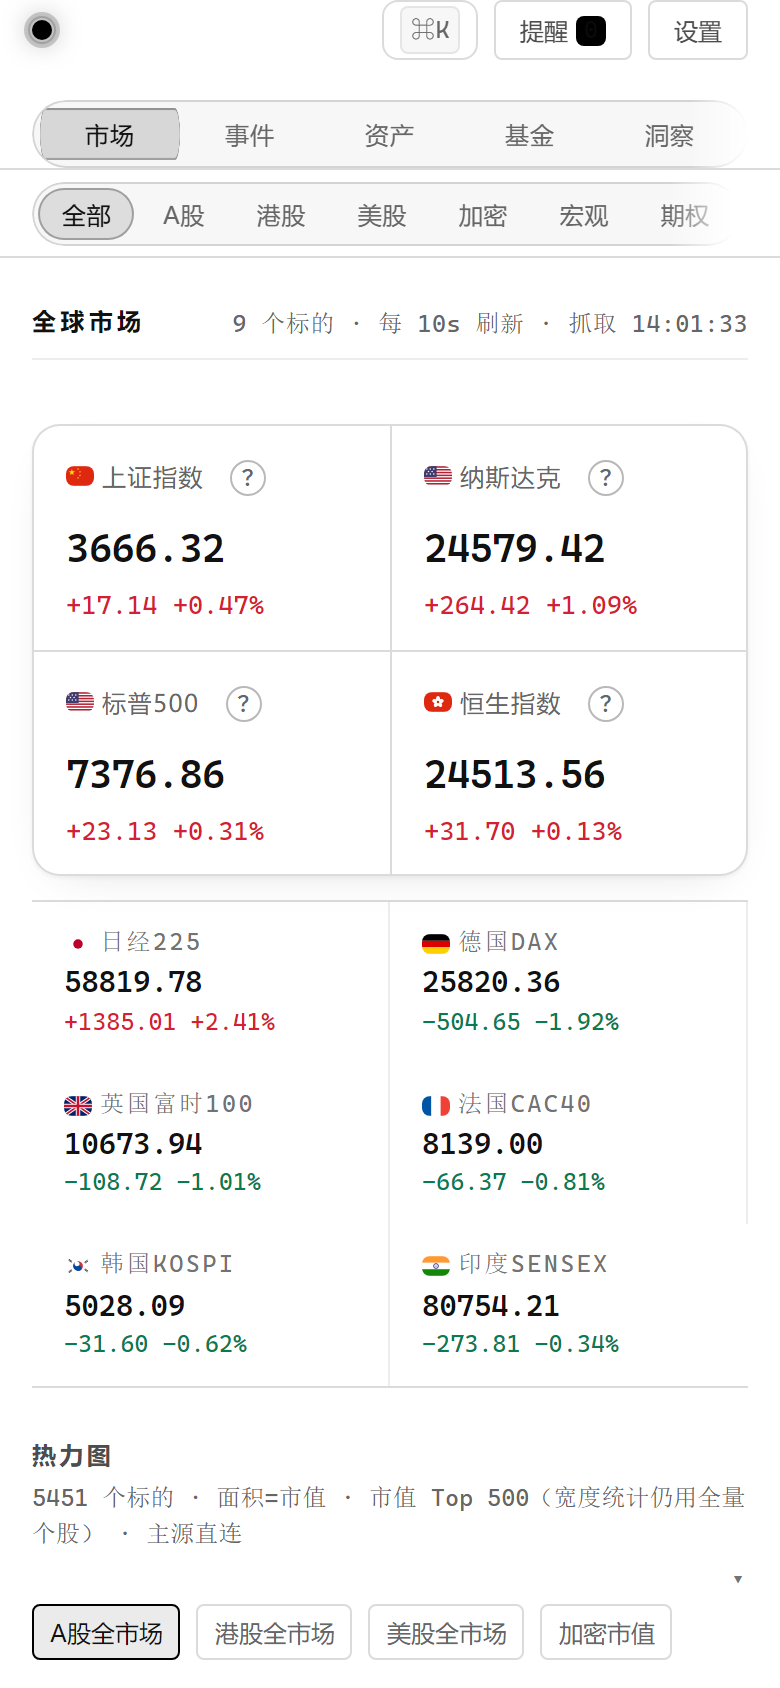
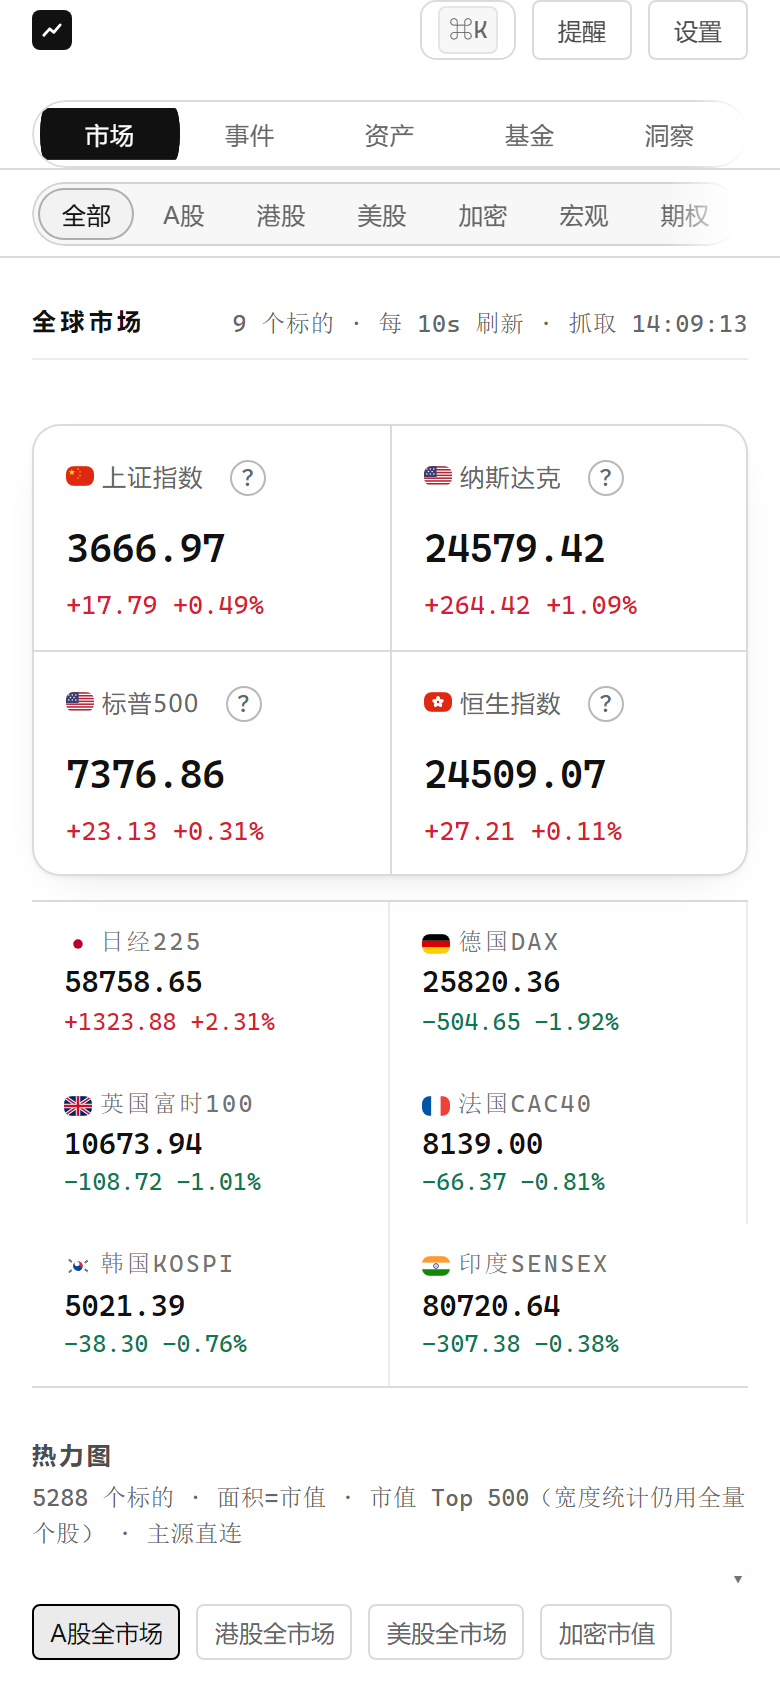
feat(ui): 品牌标与一级导航细化——SVG mark 替代圆点、当前项改实心墨色胶囊（深空白/日光黑）、二级条降一档、提醒角标修反相与 hidden

diff --git a/css/ui/01-shell.css b/css/ui/01-shell.css
@@ -24,6 +24,16 @@
 
 /* 品牌：光点 + 等宽字距的 wordmark。光点用强调色（唯一允许出现的位置之一） */
 .logo { position: relative; }
+/* 品牌标：v3.1 从「一颗 7px 圆点」换成真正的 mark ——
+   实底圆角块 + 折线（深色底上白块、浅色底上黑块），随主题自动反相，
+   不依赖任何图片资源，缩放不失真。 */
+.logo-mark {
+  display: inline-flex; align-items: center; justify-content: center;
+  width: 20px; height: 20px; flex: none;
+  border-radius: var(--r-sm);
+  background: var(--text); color: var(--bg);
+}
+.logo-mark svg { width: 14px; height: 14px; display: block; }
 .logo .logo-dot {
   width: 7px;
   height: 7px;
@@ -49,7 +59,7 @@
   height: 34px;
   margin: 0 auto;                 /* 品牌与动作区之间居中 */
   padding: 3px;
-  background: var(--bg-sunken);
+  background: transparent;
   border: 1px solid var(--border);
   border-radius: 999px;
   isolation: isolate;
@@ -68,10 +78,10 @@
   letter-spacing: 0.04em;
   color: var(--text-tertiary);
   white-space: nowrap;
-  transition: color var(--dur-2) var(--ease-out);
+  transition: color var(--dur-2) var(--ease-out), background-color var(--dur-2) var(--ease-out);
 }
 .nav-primary:hover { color: var(--text-secondary); }
-.nav-primary.active { color: var(--text); }
+.nav-primary.active { color: var(--bg); }
 /* 按压反馈：进快出慢（进 = 无过渡，出 = 默认过渡） */
 .nav-primary:active { transform: scale(0.98); transition: none; }
 .nav-primary:focus-visible { outline: 2px solid var(--focus-ring); outline-offset: 2px; }
@@ -88,8 +98,9 @@
   z-index: 0;
   width: calc((100% - 6px) / var(--ink-n, 5));
   border-radius: 999px;
-  background: rgba(var(--accent-rgb), 0.13);
-  box-shadow: inset 0 0 0 1px rgba(var(--accent-rgb), 0.32), inset 0 1px 0 rgba(255, 255, 255, 0.06);
+  /* 实心墨色：深空=白、日光=黑。
+     旧版是 13% 强调色蒙版 + 内描边，白底上是一块"脏灰"，看不出是当前项。 */
+  background: var(--text);
   transform: translateX(calc(var(--ink-i, 0) * 100%));
   transform-origin: 0 50%;
   transition: transform var(--dur-3) var(--ease-signature);
@@ -215,8 +226,8 @@
 .subnav-tabs .tab:hover { color: var(--text-secondary); background: rgba(var(--accent-rgb), 0.06); }
 .subnav-tabs .tab.active {
   color: var(--text);
-  background: rgba(var(--accent-rgb), 0.10);
-  box-shadow: inset 0 0 0 1px rgba(var(--accent-rgb), 0.28);
+  background: var(--bg-hover);
+  box-shadow: inset 0 0 0 1px var(--border-hover);
 }
 .subnav-tabs .tab:focus-visible { outline: 2px solid var(--focus-ring); outline-offset: 2px; }
 
@@ -601,6 +612,9 @@ html { scrollbar-width: thin; scrollbar-color: var(--border-hover) transparent; 
    并加一圈极弱光环，读起来是一枚 mark 而不是一颗残留圆点。 */
 @media (max-width: 640px) {
   .topbar .logo .logo-word { display: inline; letter-spacing: 0.12em; }
+  /* style.css 里有一条老规则 `.logo span:not(.logo-dot){display:none}`（旧版把品牌缩成圆点），
+     现在品牌标是 <span class="logo-mark">，那条规则会把它一起藏掉 —— 这里按同权重补回。 */
+  .topbar .logo .logo-mark { display: inline-flex; }
 }
 @media (max-width: 480px) {
   .topbar .logo .logo-word { display: none; }
@@ -610,3 +624,16 @@ html { scrollbar-width: thin; scrollbar-color: var(--border-hover) transparent; 
     outline: 3px solid rgba(var(--accent-rgb), 0.18); outline-offset: 1px;
   }
 }
+
+/* ============================================================ v3.1 收口：提醒角标
+   旧规则 background: var(--accent-signature) + color: #0a0a0b —— 日光模式下强调色是黑，
+   于是变成「黑底 + 近黑字」，数字看不见（截图上就是一块黑方块）。
+   而且 `.alert-badge{display:inline-block}` 盖掉了 [hidden] 的默认 display:none，
+   数量为 0 时也一直显示。 */
+.alert-badge {
+  display: inline-block; min-width: 16px; height: 16px; margin-left: var(--sp-4);
+  padding: 0 var(--sp-4); border-radius: var(--r-pill);
+  background: var(--text); color: var(--bg);
+  font-size: var(--fs-12); line-height: 16px; text-align: center; vertical-align: 1px;
+}
+.alert-badge[hidden] { display: none; }

diff --git a/index.html b/index.html
@@ -48,7 +48,10 @@
      （由 js/ui/navmap.js 做纯函数映射），深链与既有模块不受影响。 -->
 <header class="topbar">
   <a class="logo" id="brandHome" href="#tab=market&amp;sub=all" title="OpenFinLens · 回到市场总览">
-    <span class="logo-dot" aria-hidden="true"></span>
+    <span class="logo-mark" aria-hidden="true">
+      <svg viewBox="0 0 24 24" fill="none" stroke="currentColor" stroke-width="2.4"
+           stroke-linecap="round" stroke-linejoin="round"><path d="M5 16.5 L10 11 L13.6 14 L19 7.6"/></svg>
+    </span>
     <span class="logo-word">OpenFinLens</span>
   </a>
   <!-- 一级栏用 role=tablist + roving tabindex（同一时刻只有一个在 Tab 序里，方向键横向移动）。
